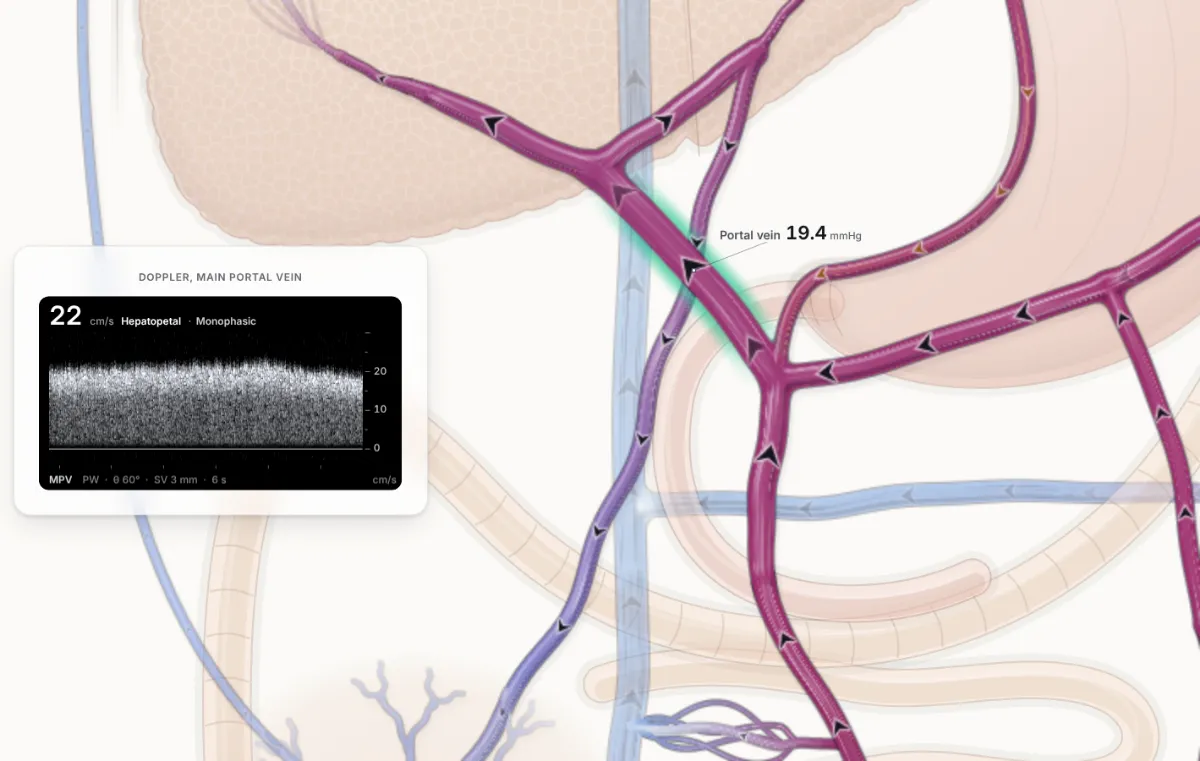
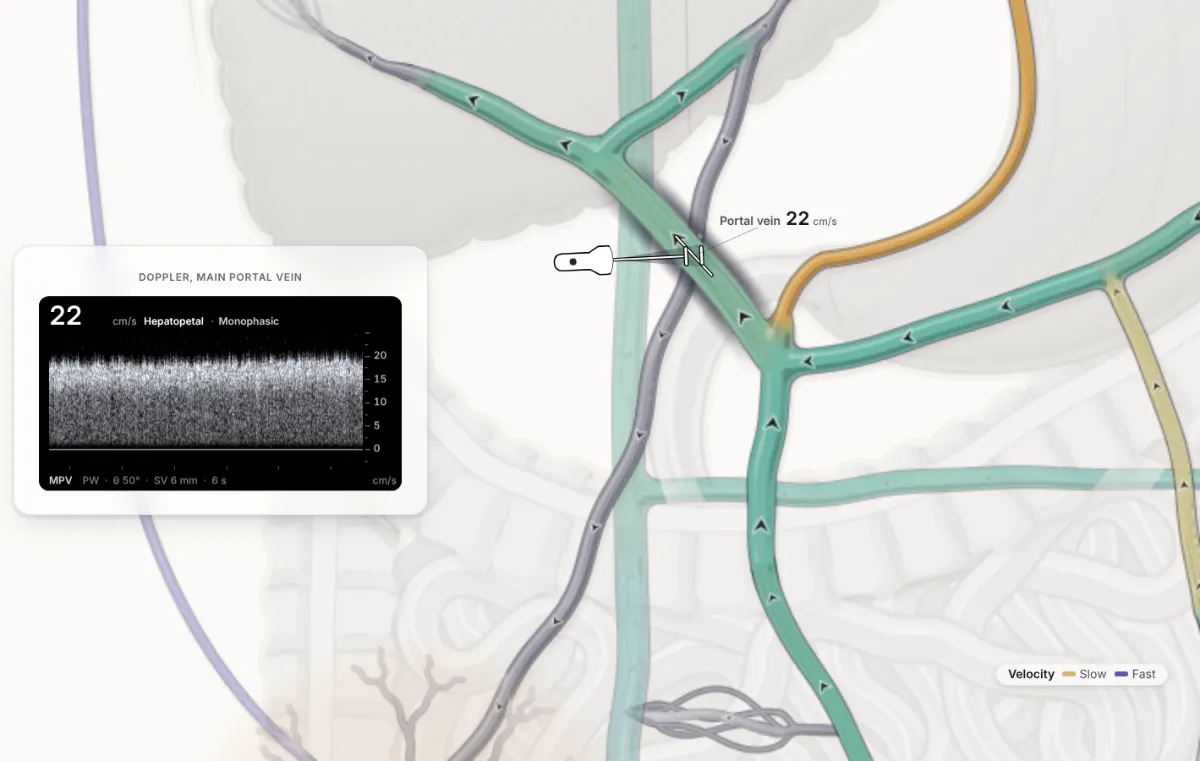
Lens additions: oxygen on the fed gut and the five-lens slide, plus the 17 Oct list (L3, L5, L6, L8 to L11)
Circulation 10 (meal): Flow / Oxygen buttons; Circulation 3: Oxygen as a fifth
lens button (compact Press./Dir. labels where the row would wrap). Two inflows 4
(clot): oxygen, the sinusoids brighten as arterial blood fills them (88 to 95%).
Treatment 10 (cost): Origin / Oxygen, hepatic vein blood 69 to 88% after TIPS.
PVT in cirrhosis 3 (partial clot) and One year 7 (Doppler): velocity. Outflow 2
(Budd-Chiari) and Lobule 7 (heart failure): congestion. Each line names what the
colours show. L7 left out: at CSPH the model's portal velocity is 24 cm/s,
inside the normal band, so a velocity lens would not show slow flow.

Claude-Session: https://claude.ai/code/session_01NmvvuDFbFqJfsFY4n2oiRW

diff --git a/src/ui/decks/circulation.js b/src/ui/decks/circulation.js
@@ -21,10 +21,10 @@ export const CIRCULATION = {
     },
     {
       id: 'lenses', cam: 'fit', labels: ['CONF', 'RA'],
-      compare: [{ label: 'Pressure', lens: 'pressure', own: true }, { label: 'Flow', lens: 'flow' }, { label: 'Direction', lens: 'direction' }, { label: 'Origin', lens: 'origin' }],
-      kicker: 'The portal circulation', title: 'One patient, four ways to color the vessels',
-      line: 'Each button colors the same vessels by a different question: how high the pressure is, how much blood flows, which way it goes, and where it comes from. Later slides pick the coloring that answers their question.',
-      notes: 'Switch through the four colorings on this healthy patient. Pressure falls from the gut to the heart. Flow is largest in the portal vein and the IVC. Direction is uniform: every vein runs toward the heart, and the portal vein runs toward the liver. Origin follows each source: SMV, IMV and splenic blood run side by side into the portal vein and mix with arterial blood in the liver. Other decks switch to the coloring that shows their point, and the key under the line says which.',
+      compare: [{ label: 'Pressure', lens: 'pressure', own: true, short: 'Press.' }, { label: 'Flow', lens: 'flow' }, { label: 'Direction', lens: 'direction', short: 'Dir.' }, { label: 'Origin', lens: 'origin' }, { label: 'Oxygen', lens: 'oxygen' }],
+      kicker: 'The portal circulation', title: 'One patient, five ways to color the vessels',
+      line: 'Each button colors the same vessels by a different question: how high the pressure is, how much blood flows, which way it goes, where it comes from, and how much oxygen it carries. Later slides pick the coloring that answers their question.',
+      notes: 'Switch through the five colorings on this healthy patient. Pressure falls from the gut to the heart. Flow is largest in the portal vein and the IVC. Direction is uniform: every vein runs toward the heart, and the portal vein runs toward the liver. Origin follows each source: SMV, IMV and splenic blood run side by side into the portal vein and mix with arterial blood in the liver. Oxygen runs from arterial red through the slightly darker portal blood to the blue of the hepatic veins, after the liver cells have taken their share. Other decks switch to the coloring that shows their point, and the key under the line says which.',
       ask: ['Which coloring would show a portal vein flowing away from the liver?', 'Direction: the reversed vein changes color.'],
     },
     {
@@ -70,11 +70,11 @@ export const CIRCULATION = {
       ask: ['Where does blood go after the central vein?', 'Into the hepatic veins, the IVC and the right atrium.'],
     },
     {
-      id: 'flow', lens: 'flow', terms: ['sin'], days: 8, ramp: { meal: [0, 1] }, lapse: { seconds: 6, from: 'Fasting', to: 'After a meal' }, lapseGlow: ['bowel'], cam: 'gut', clear: true, labels: ['SMV', 'CONF'], glow: ['smv', 'sv', { id: 'imv', soft: true }, { id: 'lgv', soft: true }], tool: { kind: 'flowtime' },
+      id: 'flow', lens: 'flow', terms: ['sin'], days: 8, ramp: { meal: [0, 1] }, lapse: { seconds: 6, from: 'Fasting', to: 'After a meal' }, lapseGlow: ['bowel'], compare: [{ label: 'Flow', lens: 'flow', own: true }, { label: 'Oxygen', lens: 'oxygen' }], cam: 'gut', clear: true, labels: ['SMV', 'CONF'], glow: ['smv', 'sv', { id: 'imv', soft: true }, { id: 'lgv', soft: true }], tool: { kind: 'flowtime' },
       kicker: 'Hemodynamics', title: 'After a meal flow rises, but the pressure barely moves',
       eq: ['<mrow><mi mathvariant="normal">Δ</mi><mi>P</mi></mrow>' + mo('=') + mi('Q') + mo('×') + mi('R'), 'ΔP pressure drop across the liver · Q portal flow · R hepatic resistance'],
-      line: 'Pressure equals flow times resistance. Normal sinusoids have so little resistance that raising the flow by half adds little pressure. Colored by flow, the gut veins and the portal vein deepen as the flow rises.',
-      notes: 'Watch the portal flow tile and the vessels speed up as the meal is digested, while the portal pressure rises by only just over 1 mmHg. Pressure is flow times resistance, and normal sinusoids have very little resistance, so even a large rise in flow adds little pressure. In cirrhosis the resistance is high, so the same meal raises the HVPG by about 15 to 25%; this is why flow matters most once the resistance has risen; in most portal hypertension the resistance rises first. Later the splanchnic arterioles dilate for good and the extra inflow keeps the pressure high even after collaterals open. Treatments work on one side or the other: beta-blockers and vasoactive drugs such as octreotide cut inflow; TIPS goes around the resistance.',
+      line: 'Pressure equals flow times resistance. Normal sinusoids have so little resistance that raising the flow by half adds little pressure. Colored by flow, the gut veins deepen as the flow rises; colored by oxygen, gut venous blood still carries most of its oxygen.',
+      notes: 'Watch the portal flow tile and the vessels speed up as the meal is digested, while the portal pressure rises by only just over 1 mmHg. Pressure is flow times resistance, and normal sinusoids have very little resistance, so even a large rise in flow adds little pressure. In cirrhosis the resistance is high, so the same meal raises the HVPG by about 15 to 25%; this is why flow matters most once the resistance has risen; in most portal hypertension the resistance rises first. Later the splanchnic arterioles dilate for good and the extra inflow keeps the pressure high even after collaterals open. Treatments work on one side or the other: beta-blockers and vasoactive drugs such as octreotide cut inflow; TIPS goes around the resistance. Colored by oxygen, the gut veins stay close to arterial red: the gut takes only a little of its blood\'s oxygen, so portal blood still carries about 85%, and after a meal it brings the liver a larger share of its oxygen while the hepatic artery eases back.',
       ask: ['What does the meal tell you about a healthy liver?', 'That its resistance is very low: a large rise in flow adds almost no pressure.'],
     },
     {

diff --git a/src/ui/decks/treatment.js b/src/ui/decks/treatment.js
@@ -73,10 +73,10 @@ export const TREATMENT = {
       ask: ['Name two benefits of TIPS besides stopping a bleed.', 'The ascites clears as the kidneys excrete sodium again, and the low gradient keeps varices from rebleeding.'],
     },
     {
-      id: 'cost', lens: 'origin', cam: 'liver', scales: { lobule: {} }, sites: ['split'], mark: { edges: ['TIPS'], label: 'Covered stent', kind: 'treat' }, tool: { kind: 'flows', of: 'inflow' }, data: 'tiles', tiles: ['liver'], delta: 'target',
+      id: 'cost', lens: 'origin', compare: [{ label: 'Origin', lens: 'origin', own: true }, { label: 'Oxygen', lens: 'oxygen' }], cam: 'liver', scales: { lobule: {} }, sites: ['split'], mark: { edges: ['TIPS'], label: 'Covered stent', kind: 'treat' }, tool: { kind: 'flows', of: 'inflow' }, data: 'tiles', tiles: ['liver'], delta: 'target',
       kicker: 'After TIPS', site: 'sin', title: 'Liver perfusion and encephalopathy',
-      line: 'Less portal blood reaches the sinusoids, and gut toxins pass straight into the systemic circulation. About a third of patients develop encephalopathy. Colored by origin, the sinusoids carry mostly arterial blood, and gut blood runs through the stent.',
-      notes: 'After TIPS, overt hepatic encephalopathy develops in about a third of patients, mostly in the first months; older age, earlier encephalopathy and a wider stent raise the risk, and an 8 mm covered stent lowers it. The heart receives more venous return and the liver less portal blood, so TIPS is avoided in heart failure, severe pulmonary hypertension, advanced liver failure (a high MELD) and recurrent encephalopathy. Lactulose and rifaximin treat encephalopathy; the shunt can be narrowed if it persists.',
+      line: 'Less portal blood reaches the sinusoids, and gut toxins pass straight into the systemic circulation; about a third develop encephalopathy. Colored by origin, gut blood runs through the stent; colored by oxygen, the hepatic veins turn bright: stent blood skips the liver cells.',
+      notes: 'After TIPS, overt hepatic encephalopathy develops in about a third of patients, mostly in the first months; older age, earlier encephalopathy and a wider stent raise the risk, and an 8 mm covered stent lowers it. The heart receives more venous return and the liver less portal blood, so TIPS is avoided in heart failure, severe pulmonary hypertension, advanced liver failure (a high MELD) and recurrent encephalopathy. Lactulose and rifaximin treat encephalopathy; the shunt can be narrowed if it persists. Colored by oxygen, hepatic vein blood is about 88% saturated instead of about 69% before the stent: most of it came through the stent and gave no oxygen to liver cells.',
       ask: ['Name two contraindications to TIPS.', 'Heart failure or severe pulmonary hypertension; advanced liver failure (high MELD); recurrent severe encephalopathy.'],
     },
     {

diff --git a/src/ui/decks/outflow.js b/src/ui/decks/outflow.js
@@ -18,11 +18,11 @@ export const OUTFLOW = {
   summary: 'Budd–Chiari syndrome and sinusoidal obstruction syndrome: a liver that cannot drain, what the catheter can and cannot read, and the stepwise reopening of the outflow.',
   slides: [
     {
-      id: 'bcs', terms: ['ivc', 'ra'], preset: 'budd-chiari', cam: 'hepatic', mark: { edges: ['RHV_IVC', 'MHV_IVC', 'LHV_IVC'], label: 'Clots' }, tool: { kind: 'abdomen' }, data: 'tiles', tiles: ['pv', 'asc'], key: ['asc'],
+      id: 'bcs', lens: 'heat', terms: ['ivc', 'ra'], preset: 'budd-chiari', cam: 'hepatic', mark: { edges: ['RHV_IVC', 'MHV_IVC', 'LHV_IVC'], label: 'Clots' }, tool: { kind: 'abdomen' }, data: 'tiles', tiles: ['pv', 'asc'], key: ['asc'],
       whatIf: { label: 'Right hepatic vein clot', param: 'thrombus.RHV_IVC', min: 0, max: 1, step: 0.05, ends: ['None', 'Occlusive'] },
       kicker: 'Hepatic veins', site: 'post', title: 'In Budd–Chiari syndrome the hepatic veins clot',
       vignette: 'A 31-year-old woman with antiphospholipid syndrome stopped warfarin 3 months ago. She has had RUQ pain for 2 months and now has tense ascites.',
-      line: 'Resistance anywhere from the small [hepatic veins](hv) to where the IVC enters the right atrium traps blood in the liver. The liver swells, portal pressure rises to {pv} and ascites forms.',
+      line: 'Resistance anywhere from the small [hepatic veins](hv) to where the IVC enters the right atrium traps blood in the liver. The liver swells, portal pressure rises to {pv} and ascites forms. Colored by congestion, the pressure backs up behind the clotted veins.',
       causesHead: 'Look for', causes: ['Myeloproliferative neoplasm', 'Thrombophilia', 'Pregnancy or OCP use'],
       notes: 'Budd–Chiari syndrome is raised resistance to hepatic venous outflow anywhere from the small hepatic veins to the entry of the IVC into the right atrium, without heart disease. It presents with abdominal pain, a large tender liver and ascites, suddenly or over months. Most patients have at least one prothrombotic condition, often more than one: a myeloproliferative neoplasm (the commonest), antiphospholipid syndrome, inherited thrombophilia, paroxysmal nocturnal hemoglobinuria, pregnancy or oral contraceptive (OCP) use; and JAK2 is tested even when the blood count is normal.',
       ask: ['A young woman has a tender liver and sudden ascites. Her blood count is normal. Which test still looks for the commonest cause?', 'JAK2 V617F, then CALR if it is negative: a myeloproliferative neoplasm is the commonest cause even with a normal count.'],

diff --git a/src/ui/decks/two-inflows.js b/src/ui/decks/two-inflows.js
@@ -36,11 +36,11 @@ export const TWO_INFLOWS = {
       ask: ['Where do portal and arterial blood meet?', 'In the sinusoids, which both enter at the portal tracts.'],
     },
     {
-      id: 'clot', preset: 'pvt-acute', cam: 'portal', terms: ['pv'], mark: { edges: ['PV_TRUNK'], label: 'Clot' }, tool: HA('dual'), data: 'tiles', tiles: ['pvFlow', 'liver'], key: ['liver'], delta: 'dual',
+      id: 'clot', lens: 'oxygen', compare: [{ label: 'Pressure', lens: 'pressure' }, { label: 'Oxygen', lens: 'oxygen', own: true }], preset: 'pvt-acute', cam: 'portal', terms: ['pv'], mark: { edges: ['PV_TRUNK'], label: 'Clot' }, tool: HA('dual'), data: 'tiles', tiles: ['pvFlow', 'liver'], key: ['liver'], delta: 'dual',
       kicker: 'The buffer', site: 'pre', title: 'A clot stops the portal flow',
       vignette: 'A 47-year-old man with a newly diagnosed JAK2-positive myeloproliferative neoplasm has had 3 days of constant abdominal pain. His liver tests are normal.',
-      line: 'With resistance in the portal vein, the hepatic artery opens up and carries about twice its usual flow, so liver blood flow falls only to {liver} of normal.',
-      notes: 'This is the hepatic arterial buffer response. Adenosine is released at a steady rate around the hepatic arterioles and is normally washed away by portal flow; when portal flow falls, adenosine builds up and dilates the artery. The buffer makes up part, not all, of the lost flow. It is why acute portal vein thrombosis rarely infarcts the liver.',
+      line: 'With resistance in the portal vein, the hepatic artery opens up and carries about twice its usual flow, so liver blood flow falls only to {liver} of normal. Colored by oxygen, the sinusoids brighten as arterial blood fills them.',
+      notes: 'This is the hepatic arterial buffer response. Adenosine is released at a steady rate around the hepatic arterioles and is normally washed away by portal flow; when portal flow falls, adenosine builds up and dilates the artery. The buffer makes up part, not all, of the lost flow. It is why acute portal vein thrombosis rarely infarcts the liver. Colored by oxygen, blood entering the sinusoids rises from about 88% to 95% saturation, because most of it is now arterial.',
       ask: ['Why does acute portal vein thrombosis rarely cause a liver infarct?', 'The hepatic artery dilates (the buffer response) and keeps the liver perfused.'],
     },
     {

diff --git a/src/ui/decks/pvt-cirrhosis.js b/src/ui/decks/pvt-cirrhosis.js
@@ -28,10 +28,10 @@ export const PVT_CIRRHOSIS = {
       ask: ['Does a high INR protect a patient with cirrhosis from portal vein thrombosis?', 'No: the anticoagulant proteins fall too, so clotting is rebalanced.'],
     },
     {
-      id: 'clot', tick: 'Partial clot', params: { thrombus: { PV_TRUNK: 0.6 } }, whatIf: { label: 'Clot size', param: 'thrombus.PV_TRUNK', min: 0, max: 1, step: 0.05, ends: ['None', 'Occlusive'] }, cam: 'portal', terms: ['pv'], mark: { edges: ['PV_TRUNK'], clot: true },
+      id: 'clot', lens: 'velocity', tick: 'Partial clot', params: { thrombus: { PV_TRUNK: 0.6 } }, whatIf: { label: 'Clot size', param: 'thrombus.PV_TRUNK', min: 0, max: 1, step: 0.05, ends: ['None', 'Occlusive'] }, cam: 'portal', terms: ['pv'], mark: { edges: ['PV_TRUNK'], clot: true },
       tool: { kind: 'lumen', vessel: 'PV_TRUNK' }, data: 'tiles', tiles: ['pv'], key: ['pv'],
       kicker: 'The clot', site: 'pre', title: 'A partial clot in the portal vein',
-      line: 'The clot fills more than half of the portal vein. Blood speeds through the channel that is left, and the pressure behind it rises to {pv}.',
+      line: 'The clot fills more than half of the portal vein. Colored by velocity, blood speeds through the channel that is left, and the pressure behind it rises to {pv}.',
       notes: 'On ultrasound the clot is echogenic material in the vein, with color flow around it and a faster jet through the narrowing; an occlusive clot shows no flow at all. Contrast CT or MR comes next: first to rule out tumor thrombus from a liver cancer, which enhances in the arterial phase and expands the vein, then to show how far it extends into the splenic and superior mesenteric veins, which guides treatment. The varices enlarge as the pressure behind the clot rises.',
       ask: ['What does a contrast CT add to the Doppler?', 'First, whether the clot is tumor: an HCC thrombus enhances in the arterial phase and expands the vein. Then how far it extends into the splenic and mesenteric veins, and how much of the lumen it fills.'],
     },

diff --git a/src/ui/decks/lobule.js b/src/ui/decks/lobule.js
@@ -60,7 +60,7 @@ export const LOBULE = {
       id: 'cong', terms: { 'zone 3': 'lobule:zone3', 'central vein': 'lobule:central', sinusoids: 'lobule:sinusoid' }, layers: ['zones'], callout: { at: 'cv', label: 'Dilated zone 3 sinusoids' }, preset: 'rhf', cam: 'lobule:central', scales: { anatomy: { cam: 'heart', labels: ['RHV', 'IVCS', 'RA'] }, sinusoid: {} }, data: 'tiles', tiles: ['pv', 'hvpg'],
       kicker: 'Cardiac', site: 'cardiac', title: 'Congestion dilates the sinusoids of zone 3',
       vignette: 'A 71-year-old woman with pulmonary hypertension and severe TR has a raised JVP, ascites and a tender, enlarged liver. Her ALT is mildly raised.',
-      line: 'Back pressure from the heart dilates the sinusoids around the central vein, and zone 3 cells die first. The portal vein reads {pv}, the HVPG {hvpg}.',
+      line: 'Back pressure from the heart dilates the sinusoids around the central vein, and zone 3 cells die first. Colored by congestion, every vessel in the lobule is backed up. The portal vein reads {pv}, the HVPG {hvpg}.',
       notes: 'A high right atrial pressure passes back through the hepatic veins into the central veins and the sinusoids of zone 3, which dilate and fill with blood; the cut liver looks like a nutmeg. Low cardiac output adds hypoxia, and zone 3 cells atrophy and die. Years of this lay down fibrosis that links the central veins (cardiac cirrhosis). Every pressure from the portal vein to the atrium is high, so the HVPG is normal. The sinusoid wall is still open, so the ascites is rich in protein.',
       ask: ['Why is the HVPG normal in congestive hepatopathy although the portal pressure is high?', 'The wedged and free pressures rise together with the right atrium.'],
     },

diff --git a/src/ui/decks/one-year.js b/src/ui/decks/one-year.js
@@ -60,9 +60,9 @@ export const ONE_YEAR = {
       ask: ['The HVPG is now 13. What does that change?', 'The varices are now more likely to bleed; below about 12 mmHg bleeding is rare.'],
     },
     {
-      id: 'doppler', cam: 'portal', labels: ['CONF'], tool: { kind: 'doppler', vessel: 'PV_TRUNK', delta: 'd0' },
+      id: 'doppler', lens: 'velocity', cam: 'portal', labels: ['CONF'], tool: { kind: 'doppler', vessel: 'PV_TRUNK', delta: 'd0' },
       kicker: 'Day 365', site: 'sin', title: 'Portal flow is starting to slow',
-      line: 'As resistance in the liver rises, portal velocity falls; here it has fallen a little since day 0 but is still in the usual range. A velocity under {<15 cm/s} supports portal hypertension.',
+      line: 'As resistance in the liver rises, portal velocity falls; here it has fallen a little since day 0 but is still in the usual range. Colored by velocity, the portal vein still reads normal. A velocity under {<15 cm/s} supports portal hypertension.',
       notes: 'The main portal vein normally carries 15 cm/s or more toward the liver, with a gentle respiratory ripple. As resistance rises the velocity falls; under about 15 cm/s supports portal hypertension. Later the flow can become to-and-fro, then reverse (hepatofugal). Doppler also looks for a clot, a large spleen, collaterals and ascites. It is operator-dependent and changes with meals and breathing, so scan fasting.',
       ask: ['What portal vein velocity supports portal hypertension?', 'Under about 15 cm/s, or flow that is to-and-fro or reversed.'],
     },

diff --git a/src/ui/decks.js b/src/ui/decks.js
@@ -82,7 +82,7 @@
 // Every deck opens with an "Outline and objectives" slide built from its kicker groups and objectives
 // (withOverview below); a deck never writes that slide itself.
 
-import { CIRCULATION } from './decks/circulation.js?v=ed5243683d';
+import { CIRCULATION } from './decks/circulation.js?v=7178e95b34';
 import { SITES } from './decks/sites.js?v=6b6bfd0d9a';
 import { HVPG } from './decks/hvpg.js?v=fdbfb19daa';
 import { ASCITES } from './decks/ascites.js?v=c660152764';
@@ -100,11 +100,11 @@ import { ENDOSCOPY } from './decks/endoscopy.js?v=434caeeae8';
 import { PREHEPATIC } from './decks/prehepatic.js?v=6d557413a6';
 import { RIGHT_HEART } from './decks/right-heart.js?v=804d9b4428';
 import { BLEED } from './decks/variceal-bleed.js?v=ec58cc07eb';
-import { TWO_INFLOWS } from './decks/two-inflows.js?v=0e9eb9f46d';
-import { PVT_CIRRHOSIS } from './decks/pvt-cirrhosis.js?v=6e8a9589f9';
+import { TWO_INFLOWS } from './decks/two-inflows.js?v=0f90811fba';
+import { PVT_CIRRHOSIS } from './decks/pvt-cirrhosis.js?v=26a919a887';
 import { SPLEEN } from './decks/spleen.js?v=914629f1fc';
 import { NCPH } from './decks/ncph.js?v=ab74f66e04';
-import { OUTFLOW } from './decks/outflow.js?v=a570abfc9d';
+import { OUTFLOW } from './decks/outflow.js?v=b427519dbc';
 import { RECOMPENSATION } from './decks/recompensation.js?v=e78b9f0f5e';
 import { WHERE } from './decks/where.js?v=07764393d5';
 import { PREGNANCY_DECK } from './decks/pregnancy.js?v=fe8b1f73c8';
